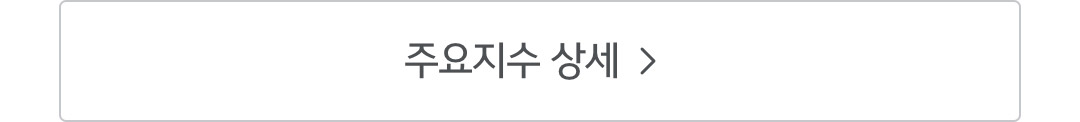
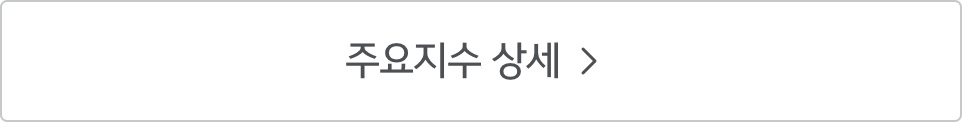
중간컨펌(폰트사이트2/3,그에따른 margin,padding조정),이미지 크기 조정

diff --git a/src/m-able/style.scss b/src/m-able/style.scss
@@ -12,7 +12,7 @@ button {
 
 .menu-list {
   overflow: hidden;
-  margin-top: 36px;
+  margin-top: 24px;
   display: flex;
 
   &__item {
@@ -38,13 +38,13 @@ button {
     }
 
     &+li {
-      margin-left: 30px;
+      margin-left: 20px;
     }
 
   }
 
   .text {
-    font-size: 24px;
+    font-size: 16px;
     font-weight: 500;
 
     letter-spacing: -0.05em;
@@ -70,8 +70,8 @@ button {
 }
 
 .section__title {
-  margin: 36px 30px;
-  font-size: 32px;
+  margin: 24px 30px;
+  font-size: 20px;
   font-weight: bold;
   letter-spacing: -0.05em;
 }
@@ -79,11 +79,11 @@ button {
 .mable-header {
   display: flex;
   align-items: center;
-  height: 84px;
+  height: 56px;
 
   h1 {
     flex-shrink: 0;
-    width: 143px;
+    width: 95px;
     height: auto;
     margin-right: auto;
   }
@@ -95,7 +95,7 @@ button {
       display: flex;
 
       .side-btn {
-        width: 44px;
+        width: 30px;
         height: auto;
       }
     }
@@ -105,14 +105,14 @@ button {
 .gnb-list {
   display: flex;
   align-items: center;
-  height: 80px;
+  height: 55px;
 
   &__item {
     flex-shrink: 0;
 
     .gnb-btn {
       display: inline-block;
-      font-size: 26px;
+      font-size: 17px;
       font-weight: bold;
       letter-spacing: -0.5px;
       color: #c5c8cb;
@@ -125,7 +125,7 @@ button {
     }
 
     &+li {
-      margin-left: 30px;
+      margin-left: 20px;
     }
   }
 
@@ -148,7 +148,7 @@ button {
 }
 
 .main-section-02 {
-  padding-top: 36px;
+  padding-top: 24px;
   border-bottom: 20px solid #f1f2f6;
 
   &__title {
@@ -156,8 +156,8 @@ button {
     margin: 0 30px;
 
     img {
-      width: 134px;
-      height: 30px;
+      width: 90px;
+      height: 20px;
     }
 
   }
@@ -167,20 +167,20 @@ button {
       display: flex;
       justify-content: space-between;
       align-items: flex-end;
-      margin-top: 36px;
+      margin-top: 24px;
 
       .img {
         display: block;
         margin: 0 30px;
 
         &--text {
-          width: 232px;
-          height: 110px;
+          width: get-vw(155, 540);
+          height: get-vw(73, 540);
         }
 
         &--graph {
-          width: 100px;
-          height: 78px;
+          width: get-vw(100, 540);
+          height: get-vw(78, 540);
         }
       }
     }
@@ -195,7 +195,7 @@ button {
         .text {
           display: flex;
           align-items: center;
-          font-size: 20px;
+          font-size: 14px;
           font-weight: 500;
           letter-spacing: -0.05em;
           color: #9da0a3;
@@ -227,7 +227,7 @@ button {
         padding: 0 30px;
 
         &__item {
-          padding: 30px 0;
+          padding: 20px 0;
           font-size: 0;
 
           &+li {
@@ -236,7 +236,7 @@ button {
         }
 
         .article-title {
-          font-size: 20px;
+          font-size: 14px;
           font-weight: 500;
           letter-spacing: -0.05em;
           color: #4d5053;
@@ -245,7 +245,7 @@ button {
         .article-info {
           display: inline-block;
           padding-top: 10px;
-          font-size: 16px;
+          font-size: 11px;
           letter-spacing: -0.05em;
           font-weight: 500;
           color: #9da0a3;
@@ -255,9 +255,9 @@ button {
               content: "";
               display: inline-block;
               width: 2px;
-              height: 13px;
+              height: 8px;
               background-color: #c5c8cb;
-              margin: 0 12px;
+              margin: 0 8px;
             }
           }
         }
@@ -277,22 +277,22 @@ button {
 }
 
 .main-section-03 {
-  padding: 36px 0 36px 30px;
-
-  .section__title {
-    margin: 0;
-    margin-right: 30px;
-  }
+  padding-bottom: 36px;
 
   &__detail {
-    margin: 36px auto 0;
-    @include vw-s(width, 960);
-    @include vw-s(height, 120);
+    margin: 24px auto 0;
+    width: get-vw(960, $viewport-s);
+    height: get-vw(120, $viewport-s);
+  }
+
+  .menu-list {
+    margin-left: 30px;
   }
 
   .main-section-03__swiper {
+    margin-left: 20px;
     @include vw-s(height, 800);
-    margin-top: 36px;
+    margin-top: 24px;
   }
 
   .swiper-slide {
@@ -320,13 +320,12 @@ button {
     margin: 0 30px;
 
     .contents-img {
-      margin-top: 36px;
+      margin-top: 24px;
       height: get-vw(632, $viewport-s);
     }
 
     .contents-link {
-      margin: 36px auto;
-
+      margin: 24px auto;
       height: get-vw(122, $viewport-s);
     }
   }
@@ -346,17 +345,17 @@ button {
     margin: 0 30px;
 
     &__item {
-      margin-top: 47px;
+      margin-top: 31px;
       display: flex;
 
       .text {
-        font-size: 22px;
+        font-size: 15px;
         letter-spacing: -0.05em;
         color: #212121;
         font-weight: bold;
 
         &--name {
-          margin-left: 20px;
+          margin-left: 14px;
         }
 
         &--num {
@@ -384,8 +383,8 @@ button {
   .footer-gnb-list {
     overflow: hidden;
     display: flex;
-    padding: 31px 30px;
-    gap: 30px;
+    padding: 21px 20px;
+    gap: 20px;
 
     &__item {
       flex-shrink: 0;
@@ -399,7 +398,7 @@ button {
     }
 
     .footer-btn {
-      font-size: 22px;
+      font-size: 15px;
       font-weight: bold;
       color: #c5c8cb;
       letter-spacing: -0.05em;
@@ -411,10 +410,10 @@ button {
     position: absolute;
     top: 0%;
     right: 0;
-    width: 90px;
+    width: 60px;
     height: 100%;
     background: url("/public/mAble/mable_footer_menu_icon.jpg") no-repeat 50% 50% #ffdc00;
-    background-size: 30px 26px;
+    background-size: 20px 17px;
   }
 }
 

diff --git a/src/m-able/index.html b/src/m-able/index.html
@@ -10,7 +10,7 @@
     <meta http-equiv="X-UA-Compatible" content="ie=edge" />
     <meta name="format-detection" content="telephone=no, address=no, email=no" />
     <meta name="robots" content="noindex" />
-    <title>롯데ON</title>
+    <title>Mable</title>
     <link rel="stylesheet" href="/public/assets/css/common.scss">
     <link rel="icon" sizes="32x32" href="https://static.lotteon.com/p/common/assets/favicon/1/favicon-32.png">
     <link rel="icon" sizes="57x57" href="https://static.lotteon.com/p/common/assets/favicon/1/favicon-57.png">
